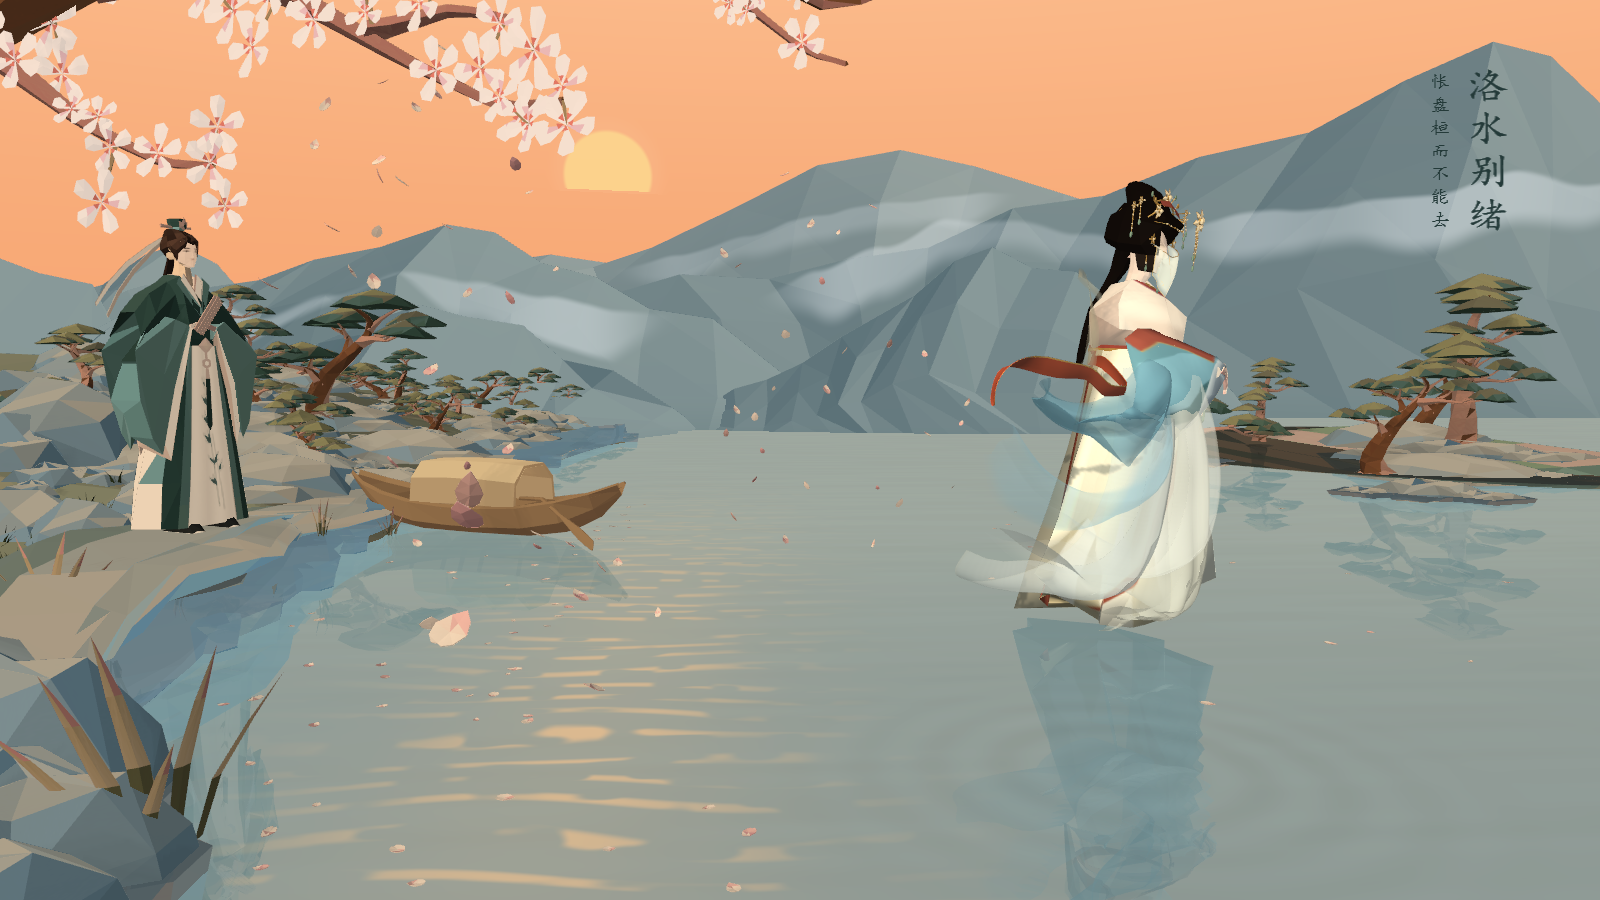
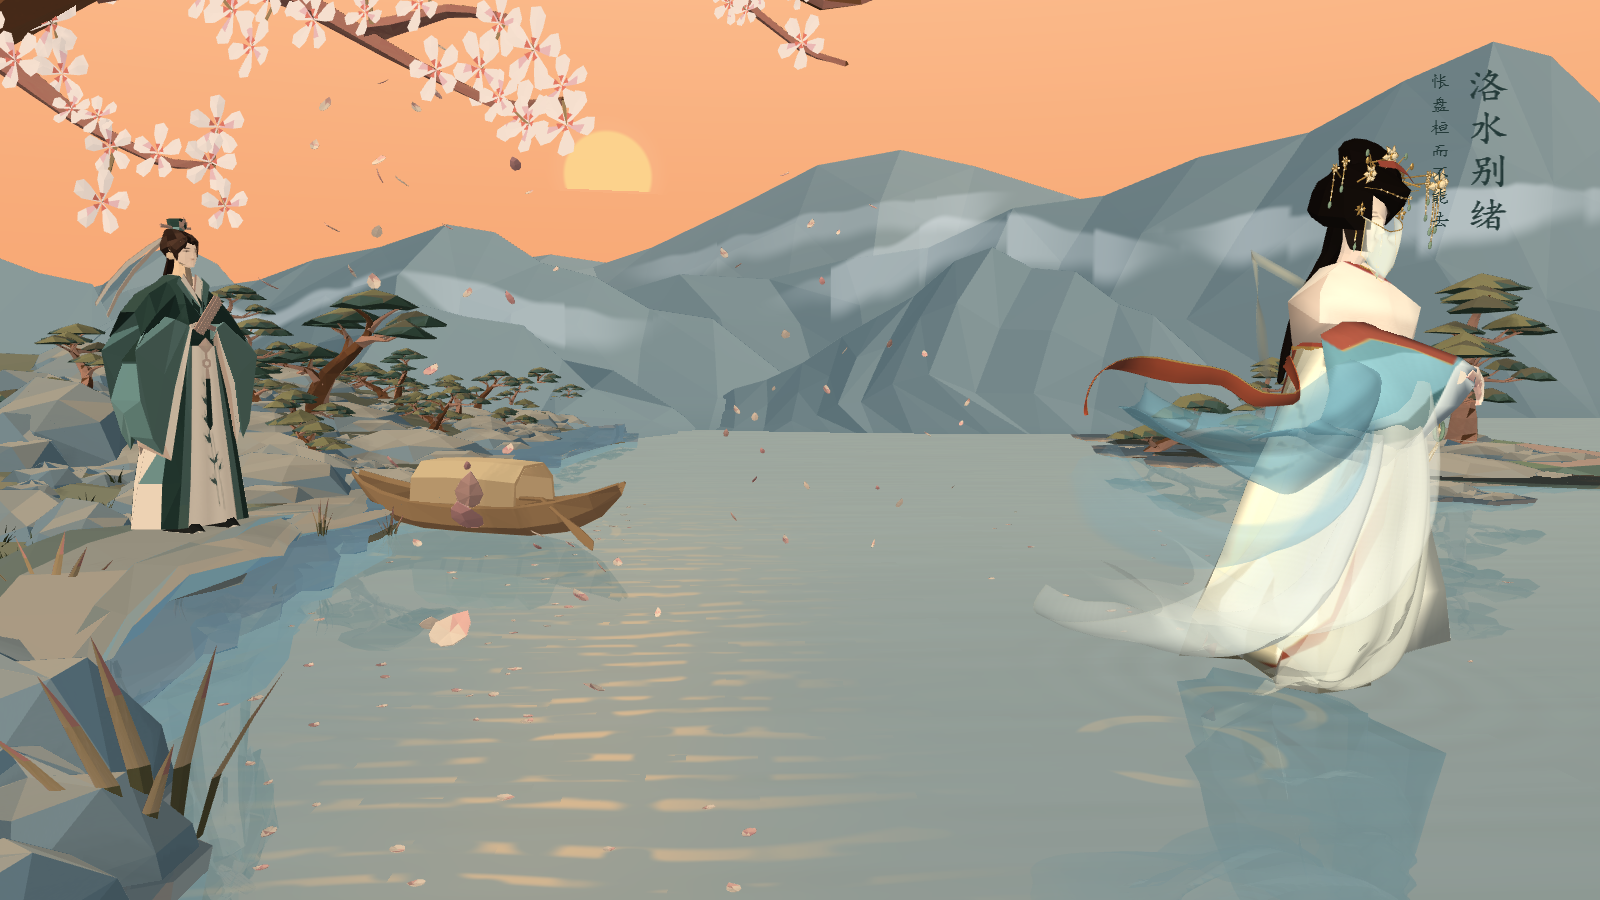
修正洛神离去的位移表现，并让水面波纹跟随动画姿态

diff --git a/场景工程_美术重制/scene_motion.h b/场景工程_美术重制/scene_motion.h
@@ -19,17 +19,20 @@ inline constexpr double kStillEnd = 4.0;       // 起步前的停顿
 inline constexpr double kTravelEnd = 34.0;     // 到达终点
 inline constexpr double kHoldEnd = 45.0;       // 结尾停留到 45 秒
 
-// 三次 Bézier 控制点。起点与 scene_layout::luoshenPosition 完全一致，
-// 终点落在右前方开阔水面，不越过右岸，也不进入中央叙事留白。
+// 三次 Bézier 控制点。起点与 scene_layout::luoshenPosition 完全一致。
+// 路线沿主镜头的屏幕右方展开、只略微向纵深后退：这样位移在画面上是
+// 可见的横向移动，而不是"原地转身、只剩缩小"的观感。终点仍在开阔水面内，
+// 不越过右岸，也不进入中央叙事留白。
 inline constexpr glm::vec3 kP0(1.000f, .045f, -1.200f);
-inline constexpr glm::vec3 kP1(1.550f, .045f, -2.250f);
-inline constexpr glm::vec3 kP2(2.900f, .045f, -4.900f);
-inline constexpr glm::vec3 kP3(4.050f, .045f, -6.100f);
+inline constexpr glm::vec3 kP1(2.300f, .045f, -1.700f);
+inline constexpr glm::vec3 kP2(3.400f, .045f, -2.450f);
+inline constexpr glm::vec3 kP3(4.450f, .045f, -2.800f);
 
 // 朝向（度，绕 Y 轴）。模型默认面向 +Z；起点使用静态站位的 -25°，
-// 离去时缓慢转向路线切线方向，观众先看到回望，再看到背影远去。
+// 离去时与曲线参数同步转到路线末端的切线方向（约 108°），
+// 也就是"转身、朝右前方走去"，中途不会停在原地打转。
 inline constexpr float kStartYaw = -25.0f;
-inline constexpr float kEndYaw = 150.0f;
+inline constexpr float kEndYaw = 108.0f;
 
 // 小舟微动参数：都以 0 时刻为静止基准，保证重置后与布局一致。
 inline constexpr float kBoatHeave = .018f;      // 升沉幅度（米）

diff --git a/场景工程_美术重制/main.cpp b/场景工程_美术重制/main.cpp
@@ -758,7 +758,20 @@ int wmain(int argc,wchar_t** argv){
             shadows.begin();
             drawCasters(shadows.lightView);
             drawMountains(shadows.lightView);
+            // 水面波纹、脚点涟漪和尾迹由 shadow_map 按布局姿态取脚点。
+            // 这里在计算这些 uniform 之前临时写入本帧的叙事姿态，让水波跟着
+            // 洛神和小舟走；算完立即还原，布局数据和保存的布局都不受影响。
+            auto& luoshenPose=layoutEditor.items[luoshenItem].pose;
+            auto& boatPose=layoutEditor.items[boatItem].pose;
+            const glm::vec3 savedLuoshenPosition=luoshenPose.position;
+            const float savedLuoshenYaw=luoshenPose.yaw;
+            const glm::vec3 savedBoatPosition=boatPose.position;
+            const float savedBoatYaw=boatPose.yaw;
+            if(luoshenMotion){luoshenPose.position=goddess;luoshenPose.yaw=farewell.yaw;}
+            if(boatMotionActive){boatPose.position.y+=boatMotion.heave;boatPose.yaw+=boatMotion.yaw;}
             shadows.end(w,h,view,!noShadows);
+            luoshenPose.position=savedLuoshenPosition;luoshenPose.yaw=savedLuoshenYaw;
+            boatPose.position=savedBoatPosition;boatPose.yaw=savedBoatYaw;
             glMatrixMode(GL_PROJECTION);glLoadMatrixf(glm::value_ptr(projection));
             pUseProgram(program);uniform1f(timeLocation,static_cast<float>(animationTime));
             auto worldUp=glm::vec3(view*glm::vec4(0,1,0,0));pUniform3f(worldUpLocation,worldUp.x,worldUp.y,worldUp.z);uniform1f(cameraHeightLocation,eye.y);

diff --git a/场景工程_美术重制/mesh_tests.cpp b/场景工程_美术重制/mesh_tests.cpp
@@ -15,7 +15,7 @@ void require(bool ok,const char* message) { if(!ok) throw std::runtime_error(mes
 int wmain(int argc,wchar_t** argv) {
     try {
         require(glm::length(farewellPosition(0)-glm::vec3(1,.045f,-1.2f))<1e-5f,"Bezier start");
-        require(glm::length(farewellPosition(45)-glm::vec3(4.05f,.045f,-6.1f))<1e-5f,"Bezier end");
+        require(glm::length(farewellPosition(45)-glm::vec3(4.45f,.045f,-2.8f))<1e-5f,"Bezier end");
         require(glm::length(farewellPosition(90)-farewellPosition(45))<1e-5f,"farewell must hold endpoint");
         require(glm::length(farewellPosition(-1)-farewellPosition(0))<1e-5f,"negative time clamps");
         require(farewellPosition(22.5).x>1.5f && farewellPosition(22.5).x<4,"Bezier midpoint advances");

diff --git a/docs/narrative-animation.md b/docs/narrative-animation.md
@@ -20,7 +20,7 @@ v(u) = 加速段 / 匀速段 / 减速段，两端速度为 0
 曲线参数 = ∫v du / ∫v du|0..1
 ```
 
-这样既保留“起步前的停顿”和“到点停稳”，又不会让 45 秒演示的前十几秒几乎看不出移动。实际速度在 18–23 秒达到最大，约 `0.256` 世界单位/秒。
+这样既保留“起步前的停顿”和“到点停稳”，又不会让 45 秒演示的前十几秒几乎看不出移动。起步后速度基本稳定在 `0.13–0.16` 世界单位/秒之间（8 秒前后最快，约 `0.162`）。
 
 ## 2. 洛神离去
 
@@ -29,15 +29,15 @@ v(u) = 加速段 / 匀速段 / 减速段，两端速度为 0
 | 控制点 | 坐标 (x, y, z) | 说明 |
 |---|---|---|
 | P0 | `(1.000, 0.045, -1.200)` | 与 `scene_layout::luoshenPosition` 完全一致 |
-| P1 | `(1.550, 0.045, -2.250)` | 先离开镜头方向，避免起步时横向滑动 |
-| P2 | `(2.900, 0.045, -4.900)` | 向右前方展开 |
-| P3 | `(4.050, 0.045, -6.100)` | 右前方开阔水面，不越过右岸，不进入中央叙事留白 |
+| P1 | `(2.300, 0.045, -1.700)` | 先向画面右侧展开，让位移在镜头里可见 |
+| P2 | `(3.400, 0.045, -2.450)` | 继续向右前方，只略微后退 |
+| P3 | `(4.450, 0.045, -2.800)` | 右前方开阔水面，仍在画面内，不越过右岸 |
 
-曲线长度约 `5.79` 世界单位。主镜头下起点位于屏幕约 `(993, 751)`，终点约 `(1189, 561)`，人物高度从约 677 像素缩小到约 345 像素，形成“远去”的透视变化。
+曲线长度约 `3.81` 世界单位。主镜头下起点位于屏幕约 `(993, 751)`，终点约 `(1450, 654)`，人物高度从约 677 像素缩小到约 513 像素：既有明确的横向位移，也保留一点远去感。
 
 ### 2.2 朝向
 
-模型默认面向 `+Z`，初始站位 `yaw = -25°`。离去时朝向与曲线参数同步插值到 `150°`，即角色缓慢转身、背对镜头远去。转向与位移共用同一条缓动曲线，所以起步和停止时角速度也为 0；0.01 秒采样下的最大角度步进约 `0.069°`，不存在跳变。
+模型默认面向 `+Z`，初始站位 `yaw = -25°`。离去时朝向与曲线参数同步插值到 `108°`，即角色缓慢转身、朝右前方走去，不再原地打转。转向与位移共用同一条缓动曲线，所以起步和停止时角速度也为 0；0.01 秒采样下的最大角度步进约 `0.052°`，不存在跳变。
 
 ### 2.3 路线约束
 
